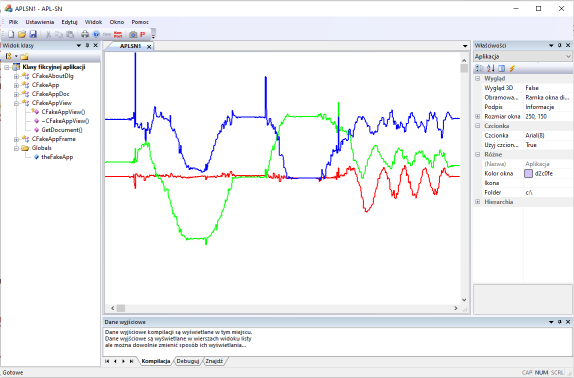
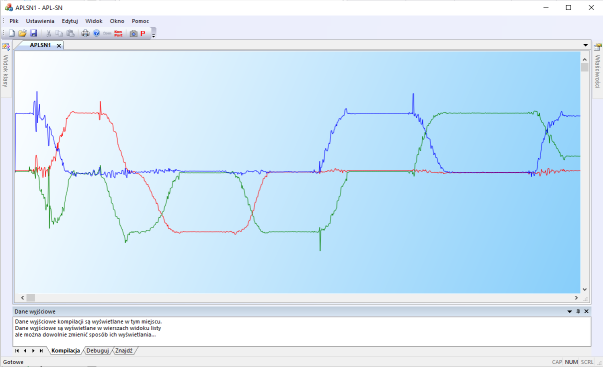
Dodano rysowanie wykresów przy użyciu Direct2D. Jest teraz o wiele szybciej

diff --git a/APL-SN/APL-SNView.cpp b/APL-SN/APL-SNView.cpp
@@ -62,6 +62,9 @@ CAPLSNView::CAPLSNView() noexcept
 
 	// Initialize D2D resources:
 	m_pBrushBlack = new CD2DSolidColorBrush(GetRenderTarget(), D2D1::ColorF(D2D1::ColorF::Black));
+	m_pBrushWykresuR = new CD2DSolidColorBrush(GetRenderTarget(), D2D1::ColorF(D2D1::ColorF::Red));
+	m_pBrushWykresuG = new CD2DSolidColorBrush(GetRenderTarget(), D2D1::ColorF(D2D1::ColorF::Green));
+	m_pBrushWykresuB = new CD2DSolidColorBrush(GetRenderTarget(), D2D1::ColorF(D2D1::ColorF::Blue));
 	//m_pBrushWykresuR
 	m_pTextFormat = new CD2DTextFormat(GetRenderTarget(), _T("Verdana"), 12);
 
@@ -455,6 +458,7 @@ uint8_t CAPLSNView::WlasciwyWatekInvalidujWytkresTelemetrii()
 		if (nErr != WAIT_TIMEOUT)
 		{
 			m_bRysujTelemetrie = TRUE;
+			this->Invalidate(TRUE);
 		}
 	}
 	return ERR_OK;
@@ -501,7 +505,6 @@ afx_msg LRESULT CAPLSNView::OnDraw2d(WPARAM wParam, LPARAM lParam)
 	CHwndRenderTarget* pRenderTarget = (CHwndRenderTarget*)lParam;
 	ASSERT_VALID(pRenderTarget);
 	CD2DPointF pktfPoczatek, pktfKoniec;
-
 	CRect okno;
 	GetClientRect(okno);
 
@@ -517,12 +520,7 @@ afx_msg LRESULT CAPLSNView::OnDraw2d(WPARAM wParam, LPARAM lParam)
 		long lLiczbaRamek = (long)getProtokol().m_vRamkaTelemetryczna.size();
 		_Telemetria stDaneTele;
 		int32_t nIndexRamki;
-		int  x;
 		long lErr;
-
-		m_pBrushWykresuR = new CD2DSolidColorBrush(GetRenderTarget(), D2D1::ColorF(D2D1::ColorF::Red));
-		m_pBrushWykresuG = new CD2DSolidColorBrush(GetRenderTarget(), D2D1::ColorF(D2D1::ColorF::Green));
-		m_pBrushWykresuB = new CD2DSolidColorBrush(GetRenderTarget(), D2D1::ColorF(D2D1::ColorF::Blue));
 		
 
 		//fSkalaX = (float)okno.right / lLiczbaRamek;
@@ -532,7 +530,8 @@ afx_msg LRESULT CAPLSNView::OnDraw2d(WPARAM wParam, LPARAM lParam)
 		std::vector< CPoint > vPunktyWykresuX;
 		//vPunktyWykresuX.reserve(okno.right);
 		nIndexRamki = lLiczbaRamek - 1;
-		pktfPoczatek.x = x = 0;
+		pktfPoczatek.x = 0.0f;
+		pktfKoniec.x = 1.0f;
 		pktfPoczatek.y = (float)okno.bottom / 2;
 		do    //sprawdzaj wektor ramki od końca aż napełni się wektor punktów wykresu
 		{
@@ -542,20 +541,21 @@ afx_msg LRESULT CAPLSNView::OnDraw2d(WPARAM wParam, LPARAM lParam)
 				lErr = m_cDekoderTelemetrii.PobierzZmienna(&stDaneTele, 0, &fZmienna);
 				if (lErr == ERR_OK)
 				{
-					pktfKoniec.x = (float)++x;
+					pktfKoniec.x += 1.0f;
 					pktfKoniec.y = (float)okno.bottom / 2 - (fZmienna * fSkalaY);
 					pRenderTarget->DrawLine(pktfPoczatek, pktfKoniec, m_pBrushWykresuR);
 					pktfPoczatek = pktfKoniec;
 				}
 					//vPunktyWykresuX.insert(vPunktyWykresuX.begin(), CPoint(x++, okno.bottom / 2 - (uint32_t)(fZmienna * fSkalaY)));
 			}
-		} while ((x < okno.right) && (nIndexRamki > 0));	//pobierz danych na szerokość okna lub tyle ile się da
+		} while ((pktfKoniec.x < okno.right) && (nIndexRamki > 0));	//pobierz danych na szerokość okna lub tyle ile się da
 
 		//wykres Y
 		std::vector< CPoint > vPunktyWykresuY;
-		vPunktyWykresuY.reserve(okno.right);
+		//vPunktyWykresuY.reserve(okno.right);
 		nIndexRamki = lLiczbaRamek - 1;
-		pktfPoczatek.x = x = 0;
+		pktfPoczatek.x = 0.0f;
+		pktfKoniec.x = 1.0f;
 		pktfPoczatek.y = (float)okno.bottom / 2;
 		do
 		{
@@ -565,20 +565,21 @@ afx_msg LRESULT CAPLSNView::OnDraw2d(WPARAM wParam, LPARAM lParam)
 				lErr = m_cDekoderTelemetrii.PobierzZmienna(&stDaneTele, 1, &fZmienna);
 				if (lErr == ERR_OK)
 				{
-					pktfKoniec.x = (float)++x;
+					pktfKoniec.x += 1.0f;
 					pktfKoniec.y = (float)okno.bottom / 2 - (fZmienna * fSkalaY);
 					pRenderTarget->DrawLine(pktfPoczatek, pktfKoniec, m_pBrushWykresuG);
 					pktfPoczatek = pktfKoniec;
 				}
 					//vPunktyWykresuY.insert(vPunktyWykresuY.begin(), CPoint(x++, okno.bottom / 2 - (uint32_t)(fZmienna * fSkalaY)));
 			}
-		} while ((x < okno.right) && (nIndexRamki > 0));
+		} while ((pktfKoniec.x < okno.right) && (nIndexRamki > 0));
 
 		//wykres Z
 		std::vector< CPoint > vPunktyWykresuZ;
-		vPunktyWykresuZ.reserve(okno.right);
+		//vPunktyWykresuZ.reserve(okno.right);
 		nIndexRamki = lLiczbaRamek - 1;
-		pktfPoczatek.x = x = 0;
+		pktfPoczatek.x = 0.0f;
+		pktfKoniec.x = 1.0f;
 		pktfPoczatek.y = (float)okno.bottom / 2;
 		do
 		{
@@ -588,14 +589,14 @@ afx_msg LRESULT CAPLSNView::OnDraw2d(WPARAM wParam, LPARAM lParam)
 				lErr = m_cDekoderTelemetrii.PobierzZmienna(&stDaneTele, 2, &fZmienna);
 				if (lErr == ERR_OK)
 				{
-					pktfKoniec.x = ++x;
+					pktfKoniec.x += 1.0f;
 					pktfKoniec.y = (float)okno.bottom / 2 - (fZmienna * fSkalaY);
 					pRenderTarget->DrawLine(pktfPoczatek, pktfKoniec, m_pBrushWykresuB);
 					pktfPoczatek = pktfKoniec;
 				}
 					//vPunktyWykresuZ.insert(vPunktyWykresuZ.begin(), CPoint(x++, okno.bottom / 2 - (uint32_t)(fZmienna * fSkalaY)));
 			}
-		} while ((x < okno.right) && (nIndexRamki > 0));
+		} while ((pktfKoniec.x < okno.right) && (nIndexRamki > 0));
 
 		
 

diff --git a/APL-SN/Protokol.cpp b/APL-SN/Protokol.cpp
@@ -98,8 +98,7 @@ uint8_t CProtokol::PolaczPort(uint8_t chTypPortu, int nNumerPortu, int nPredkosc
 		chErr = getPortSzeregowy().Connect(nNumerPortu, nPredkosc);
 		if (chErr == ERR_OK)
 		{
-			//pWskWatkuSluchajacegoUart = AfxBeginThread((AFX_THREADPROC)WatekSluchajPortuCom, (LPVOID)pWnd, THREAD_PRIORITY_ABOVE_NORMAL, 0, 0, NULL);
-			pWskWatkuSluchajacegoUart = AfxBeginThread(WatekSluchajPortuCom, (LPVOID)pWnd, THREAD_PRIORITY_ABOVE_NORMAL, 0, 0, NULL);
+			pWskWatkuSluchajacegoUart = AfxBeginThread((AFX_THREADPROC)WatekSluchajPortuCom, (LPVOID)pWnd, THREAD_PRIORITY_ABOVE_NORMAL, 0, 0, NULL);
 			m_chTypPortu = UART;
 		}
 		break;
